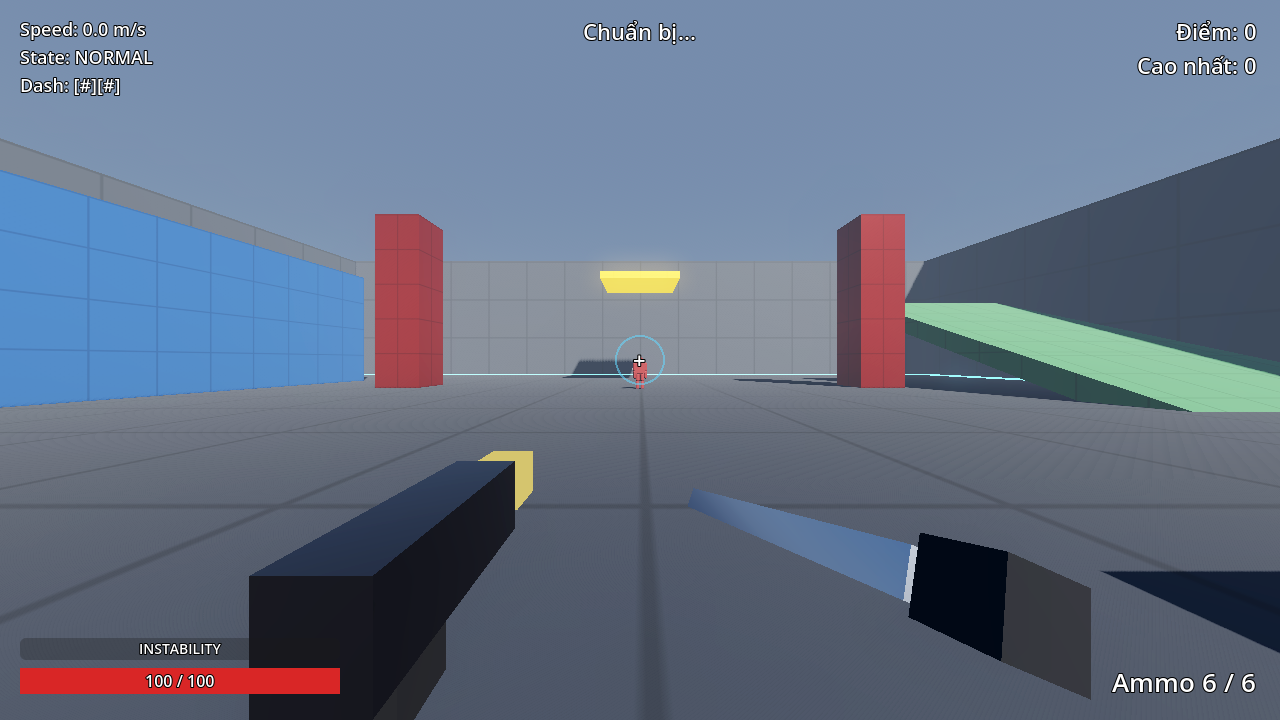
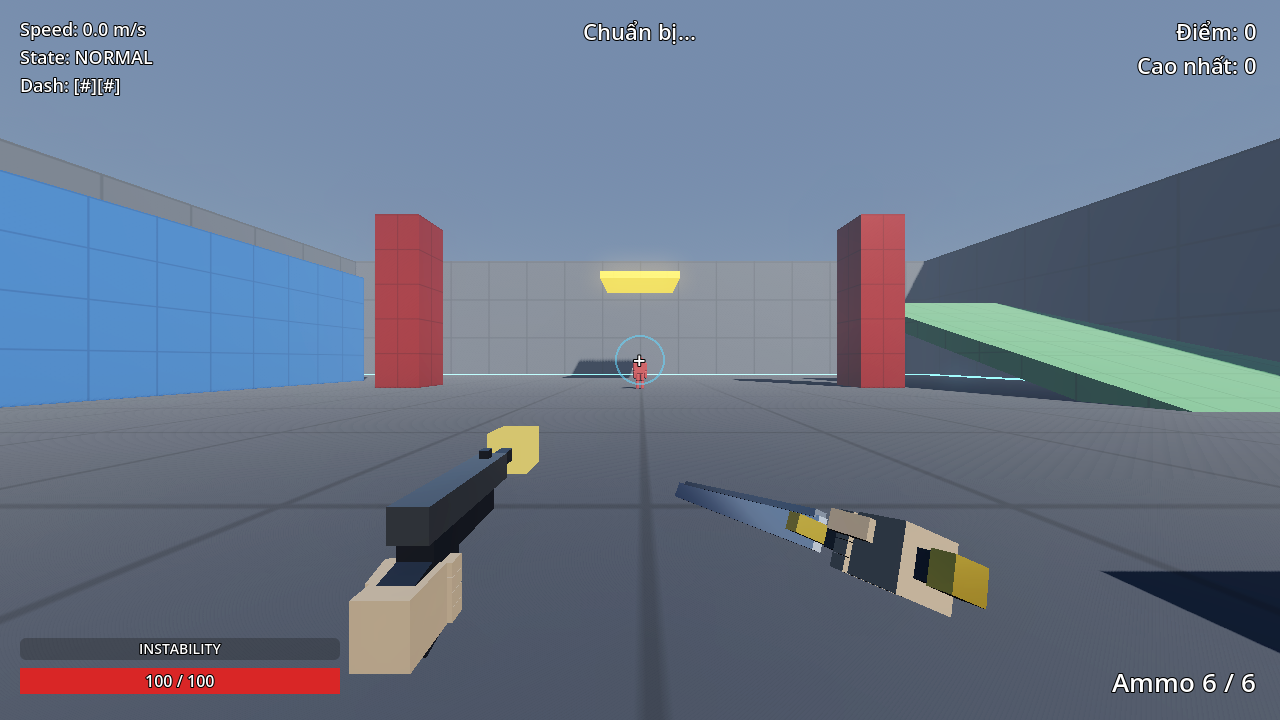
feat(viewmodel): làm lại hình dáng tay/súng/kiếm và chuyển động bằng lò xo (nhánh A)
Súng lục nhiều khối, kiếm có chắn tay, bàn tay có ngón, màu dễ đọc; nhún/lắc/tiếp đất/giật
dùng lò xo có quán tính; cập nhật test_viewmodel và HANDOFF.

Claude-Session: https://claude.ai/code/session_011ynLRm6gcKnw9wzzKe29Zc

Changed region(s): [[0.1875, 0.5806, 0.4375, 1.0], [0.5312, 0.6722, 0.875, 0.9778]]

diff --git a/docs/HANDOFF.md b/docs/HANDOFF.md
@@ -45,7 +45,9 @@
 ## M7.4 (nhánh này)
 - `scripts/viewmodel.gd` (con của `Head`, thay `SwordView`/`Gun` và xóa `sword_view.gd`): kiếm (tay phải), súng (tay trái), bàn tay + cánh tay dựng bằng khối, không đổ bóng. Lớp nền `update(delta, speed, grounded, state)`: nhún theo bước chạy, lắc theo chuột (`add_look`), tư thế slide/dash/wallrun/grapple, nảy khi tiếp đất. Lớp chiến đấu: `play_swing`, `raise` (giữ tween cũ), `kick` (giật + chớp nòng), `set_reloading(on)` (hạ/lắc/nâng đúng `Global.COMBAT["gun_reload"]`), `flinch(dir)`, `reset()`.
 - `player.gd`: `viewmodel` nối Signal (`swing_started`, `parry_started`, `shot_fired`, `reloading_changed`, `hurt`); `_anim_state_name()` dùng chung cho thân và viewmodel; `respawn` gọi `viewmodel.reset()`.
-- Mọi hệ số ở `Global.VIEWMODEL`. Cánh tay chủ yếu nằm ngoài màn hình, chỉ thấy bàn tay; súng nhìn từ bên cạnh khá to (giữ kích thước hộp cũ), có thể chỉnh sau khi chơi thử.
+- Nhánh A (chỉnh lại theo phản hồi "chưa hài lòng"): súng lục dựng nhiều khối (khung, thân trượt, nòng, đầu ruồi, báng, bao cò), kiếm có chuôi, đầu chuôi, tsuba, lưỡi + sống lưỡi, bàn tay có ngón và ngón cái (màu da), tay áo xanh. Nhún/lắc/tiếp đất/giật đi qua LÒ XO (`Spring`: `spring_k/c`, `rot_spring_k/c`, `sway_impulse`, `land_impulse`, `flinch_impulse` trong `Global.VIEWMODEL`) nên có quán tính và nảy nhẹ; tư thế trạng thái cũng do lò xo làm mượt.
+- Giới hạn: vẫn là khối cơ bản; cẳng tay chủ yếu ngoài khung hình nên chỉ thấy bàn tay. Cần người chơi thử để chỉnh độ cứng lò xo, kích thước, vị trí.
+- Kế hoạch đã duyệt: A (nhánh này, chỉnh M7.4) → B `feature/m7-5-character-polish` (làm đẹp bằng code: hình dáng chi tiết, chu kỳ chạy tốt, thở/đổi chân/quay đầu, quán tính, chém có anticipation) → C `feature/m7-6-external-assets` (asset ngoài CC0, adapter giữ API Mannequin; mạng cloud chỉ tới npm/pip/GitHub, có thể cần người dùng đính kèm file; chốt phong cách, mặc định low-poly). Mỗi nhánh một lần duyệt gộp riêng; M8 lùi sau.
 - Test: `tools/tests/test_viewmodel.gd` (11 bộ test đều xanh). Ảnh: `docs/screenshots/m7_4_*.png` (đứng, chém, bắn, nạp), script `tools/screenshots/shoot_viewmodel.gd`.
 - Chưa kiểm bằng người: độ mượt của nhún/lắc/giật, độ "đã tay".
 
@@ -58,4 +60,4 @@
 - Pitfall test `-s`: không `preload` script dùng Global ở đầu file; chờ 2 frame sau teleport; `await process_frame` đầu `_run()`.
 
 ## Việc kế tiếp
-M8 (Instability "Destabilized")… Mỗi việc phải đề xuất + chờ duyệt.
+Nhánh B (M7.5) → nhánh C (M7.6) → M8 (Instability "Destabilized")… Mỗi việc phải đề xuất + chờ duyệt.
